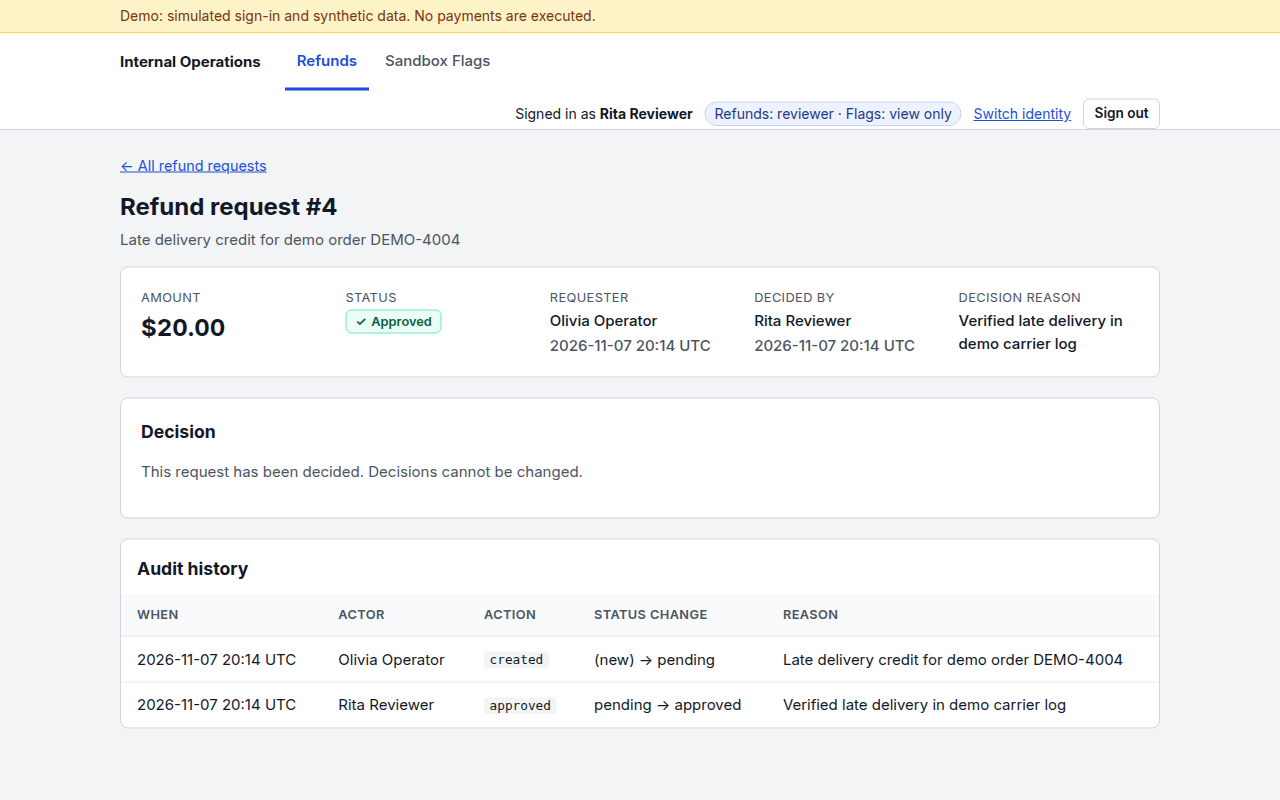
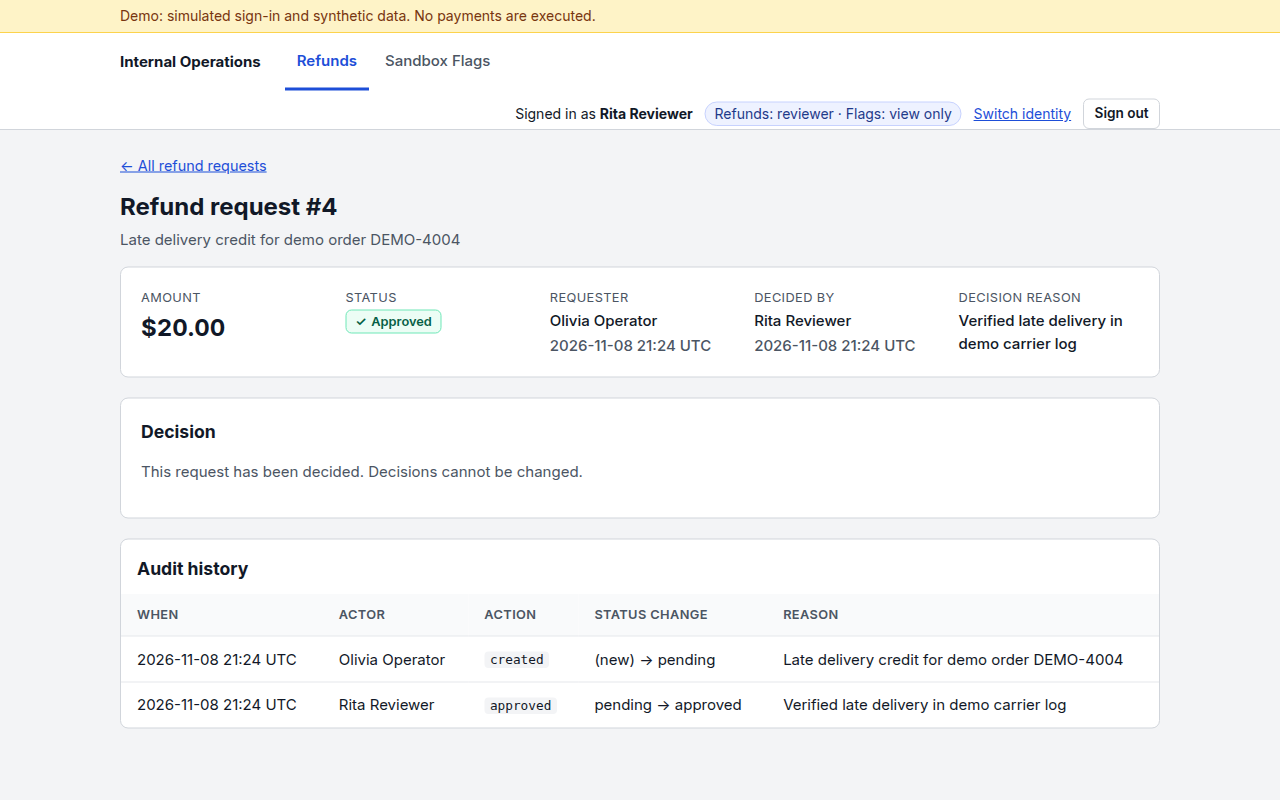
Fix stale flag form and malformed CSRF edge cases; consolidate docs

diff --git a/app/templates/flag_detail.html b/app/templates/flag_detail.html
@@ -21,8 +21,8 @@
   {% if errors %}<p class="notice notice-error" role="alert">Please correct the errors below.</p>{% endif %}
   <form method="post" action="/flags/{{ flag.id }}">
     <input type="hidden" name="csrf_token" value="{{ csrf_token }}">
-    <input type="hidden" name="version" value="{{ flag.version }}">
-    <input type="hidden" name="desired" value="{{ 'disable' if flag.enabled else 'enable' }}">
+    <input type="hidden" name="version" value="{{ form.get('version', flag.version) }}">
+    <input type="hidden" name="desired" value="{{ form.get('desired', 'disable' if flag.enabled else 'enable') }}">
     <div class="field">
       <label for="reason">Reason for change (required)</label>
       <textarea id="reason" name="reason" rows="3" required {% if errors.reason %}aria-invalid="true" aria-describedby="reason-err"{% endif %}>{{ form.get('reason', '') }}</textarea>

diff --git a/tests/test_flags.py b/tests/test_flags.py
@@ -150,3 +150,27 @@ def test_stale_conflict_page_links_to_latest_flag(as_user, conn):
 def test_header_shows_per_tool_permissions(as_user):
     assert "Refunds: viewer · Flags: admin" in as_user("fiona").get("/flags").text
     assert "Refunds: reviewer · Flags: view only" in as_user("rita").get("/flags").text
+
+
+def test_stale_form_with_invalid_reason_conflicts_instead_of_refreshing(as_user, conn):
+    fiona = as_user("fiona")
+    opened = flag_row(conn)
+    assert change(fiona, opened).status_code == 303
+    newer = flag_row(conn)
+    for reason in ("   ", "Corrected reason"):
+        r = change(fiona, opened, reason=reason)
+        assert r.status_code == 409
+        assert "This setting has changed" in r.text
+    assert dict(flag_row(conn)) == dict(newer)
+    assert flag_events(conn, opened["id"]) == 1
+
+
+def test_invalid_reason_rerender_keeps_submitted_version_and_action(as_user, conn):
+    fiona = as_user("fiona")
+    flag = flag_row(conn)
+    r = change(fiona, flag, reason="   ")
+    assert r.status_code == 422
+    assert f'name="version" value="{flag["version"]}"' in r.text
+    assert 'name="desired" value="disable"' in r.text
+    assert dict(flag_row(conn)) == dict(flag)
+    assert flag_events(conn, flag["id"]) == 0

diff --git a/tests/test_permissions.py b/tests/test_permissions.py
@@ -101,3 +101,16 @@ def test_unknown_request_is_404(as_user):
     raj = as_user("raj")
     assert raj.get("/requests/999").status_code == 404
     assert raj.decide(999).status_code == 404
+
+
+def test_malformed_csrf_token_rejected_without_changes(as_user, conn, users):
+    olivia, fiona = as_user("olivia"), as_user("fiona")
+    before = (count(conn, "refund_requests"), count(conn, "audit_events"))
+    flag = conn.execute("SELECT * FROM feature_flags ORDER BY id LIMIT 1").fetchone()
+    assert olivia.client.post("/requests", data={"amount": "1.00", "reason": "x", "csrf_token": "é"}).status_code == 403
+    assert fiona.client.post(f"/flags/{flag['id']}", data={
+        "desired": "disable" if flag["enabled"] else "enable", "reason": "x",
+        "version": str(flag["version"]), "csrf_token": "é"}).status_code == 403
+    assert as_user().client.post("/login", data={"user_id": str(users["rita"]["id"]), "csrf_token": "é"}).status_code == 403
+    assert (count(conn, "refund_requests"), count(conn, "audit_events")) == before
+    assert dict(conn.execute("SELECT * FROM feature_flags WHERE id=?", (flag["id"],)).fetchone()) == dict(flag)

diff --git a/app/flags.py b/app/flags.py
@@ -58,6 +58,12 @@ def set_flag(conn: sqlite3.Connection, actor, flag_id: int, desired, reason_raw,
         expected_version = int(expected_version_raw)
     except (TypeError, ValueError):
         errors["version"] = "Missing form version. Reload the page."
+    if errors and "version" not in errors:
+        row = conn.execute("SELECT version FROM feature_flags WHERE id = ?", (flag_id,)).fetchone()
+        if row is None:
+            raise NotFound("Flag not found.")
+        if row["version"] != expected_version:
+            raise _stale(flag_id)
     if errors:
         raise ValidationFailed("Please correct the errors below.", errors)
 

diff --git a/app/main.py b/app/main.py
@@ -96,7 +96,7 @@ def create_app(
         form = await request.form()
         sent = form.get("csrf_token")
         expected = request.session.get("csrf")
-        if not isinstance(sent, str) or not expected or not secrets.compare_digest(sent, expected):
+        if not isinstance(sent, str) or not expected or not secrets.compare_digest(sent.encode(), expected.encode()):
             raise CsrfFailed()
         return form
 

diff --git a/docs/devin-workflow.md b/docs/devin-workflow.md
@@ -1,75 +1,50 @@
 # How this was built with Devin
 
-The whole project was built in one Devin session. Requirements came in as chat messages. Changes went through GitHub pull requests.
+The project was built in one Devin session. Requirements arrived as chat messages, and every change went through a GitHub pull request with the `pytest` check.
 
-## Requests and results
+## Scope
 
-| # | Request | Result |
-|---|---|---|
-| 1 | Do minimal environment setup and propose a plan for the refund tool. Wait for review. | Plan with schema, test list, and time allocation. |
-| 2 | Approve the plan with corrections: `DEMO_MODE` must fail closed, server-side identity and roles only, CSRF on every form including identity switching, no GET mutations, SQLite foreign keys on, trimmed reasons, consistent status fields, 404/403/409 codes, bounded busy timeout, accurate "first committed decision" and "insert-only" wording. | [PR #1](https://github.com/SohanMads/fintech-internal-tools-poc/pull/1) opened with the refund workflow and 35 tests. |
-| 3 | Add a Sandbox Flags tool on the shared foundation, "Internal Operations" navigation, dollar amount input, and README sections on reuse and limitations. | Flags tool, audit table migration, shared modules for audit and errors. 82 tests. |
-| 4 | Final pass: per-tool permission labels, stale-form and error-page navigation, GitHub Actions CI, a clean-clone reproducibility check, accurate audit wording, UI polish. | Labels like "Refunds: viewer · Flags: admin". Stale flag 409 links to the flag. CI workflow passing. Shared stylesheet. 84 tests. |
-| 5 | Finalize for submission: repo description, README title, conflict demo with a fresh request, mobile-table limitation, secrets check, merge PR #1. | README fixed and PR #1 merged. The repo description could not be set from the session. |
-| 6 | Rewrite the README for a reviewer and move process detail to build notes. | [PR #2](https://github.com/SohanMads/fintech-internal-tools-poc/pull/2) with a shorter README and `docs/build-notes.md`. |
-| 7 | Three README wording fixes, then merge PR #2. | PR #2 merged. |
-| 8 | This documentation pass: Power Apps comparison, screenshots, target architecture, this file. | Documentation-only PR. |
+A refund approval workflow with synthetic data, simulated sign-in, server-side permissions, no self-approval, safe concurrent decisions, and an audit trail. A small Sandbox Flags tool was then added on the same foundation to see what could be reused. Payments, real authentication, deployment, and a generic form builder were out of scope.
 
-## What Devin got right
+## Pull requests
 
-- The first plan already had atomic audit writes in the same transaction and a conditional update for competing reviewers.
-- Tests cover the hard cases: concurrent decisions from two threads, audit-failure rollback, and forged role or actor fields.
-- The audit table migration kept existing history and verified row counts and foreign keys before committing.
-- Adding flags did not touch refund rules. Shared code moved into its own modules.
+| PR | Change |
+|---|---|
+| [#1](https://github.com/SohanMads/fintech-internal-tools-poc/pull/1) | Refund workflow (35 tests), then Sandbox Flags, shared audit and error modules, CI, and UI polish (84 tests) |
+| [#2](https://github.com/SohanMads/fintech-internal-tools-poc/pull/2) | README rewrite |
+| [#3](https://github.com/SohanMads/fintech-internal-tools-poc/pull/3) | Power Apps comparison, screenshots, architecture notes, this file |
+| [#4](https://github.com/SohanMads/fintech-internal-tools-poc/pull/4) | CSS fix for the status badge overlapping the requester column |
+| [#5](https://github.com/SohanMads/fintech-internal-tools-poc/pull/5) | Shorter UI copy and seed data, shorter docs |
+| [#6](https://github.com/SohanMads/fintech-internal-tools-poc/pull/6) | Reject button label, unused constant removed |
+| [#7](https://github.com/SohanMads/fintech-internal-tools-poc/pull/7) | Two edge-case fixes, docs consolidated |
 
-## What needed human review
+## Time
 
-- The user's approval of the first plan added requirements the plan did not spell out: fail-closed demo mode, CSRF on every form including identity switching, foreign keys on every connection, and exact error codes.
-- The header showed Fiona as "Flag Admin (viewer)" while she edited flags. The user asked for per-tool labels.
-- A stale flag form returned to the refund queue instead of the flag. The user caught it.
-- CI was not added until the user asked.
+- Devin build time: 23 minutes from start to the last application code push of PR #1, across 3 review rounds. Later fixes in PRs #4 to #7 are not included.
+- Human time reviewing and directing: ~__ minutes
+
+These numbers are from one session and are not an estimate for other apps.
+
+## Corrections
+
+Each of these was raised in the session and fixed in a later commit or PR.
+
+- Approving the first plan added requirements it did not spell out: fail-closed demo mode, CSRF on every form including identity switching, foreign keys on every connection, and exact error codes.
+- The header showed the flag admin's refund role only. The user asked for per-tool permission labels.
+- A stale flag form linked back to the refund queue instead of the flag. The user caught it.
+- CI was added only after the user asked for it.
 - The README's conflict demo used a request that was already decided. The user caught it.
-- The README read like a completion report. The user asked for a rewrite.
-- The approved status badge on the refund detail page overlapped the requester column at desktop widths. It was caught during the documentation review and fixed in [PR #4](https://github.com/SohanMads/fintech-internal-tools-poc/pull/4).
+- The approved status badge overlapped the requester column. It was found in the documentation screenshots and fixed in PR #4.
 - The session first reported the `main` CI runs as unverified. A later check found they had passed.
+- Devin Review flagged that the draft Playbook left out the `tool_permissions` CHECK migration. The Playbook was corrected.
+- The user reported two edge cases after merge. A stale flag form with an invalid reason was re-rendered with the newer version and the opposite action. A non-ASCII CSRF token caused a 500. Both are fixed with regression tests in PR #7.
 
-## Draft Playbook: Add internal tool #N on the shared foundation
+## Playbook: add internal tool #N
 
-Paste this into Devin as a Playbook.
-
-```markdown
-# Add internal tool #N on the shared foundation
-
-## Inputs the requester must provide
-- Workflow: what a user does, step by step, and what states a record moves through.
-- Roles: who can view, create, change, and approve. Note any no-self-approval rule.
-- Data: fields, types, validation rules, and sample synthetic records.
-- Audit events: which actions must be recorded and what each record must contain.
-- Integrations: any external API the tool calls. Say "none" if there are none.
-
-## Steps
-1. Read README.md, docs/architecture.md, and app/ to learn the shared modules. Do not change refund or flag rules.
-2. Schema and migration: add the tool's tables in app/db.py. Add the audit target column and CHECK changes. Write a migration that keeps existing audit rows and verifies row count and foreign keys.
-3. Rules module: create app/<tool>.py. Put every permission check, validation rule, and state change here. Wrap each change and its audit.record call in one db.transaction.
-4. Concurrency: use a conditional UPDATE on status or a version column. Return 409 when no row changes.
-5. Routes: add GET pages and POST actions in app/main.py. Every POST uses checked_form. No GET request changes data.
-6. Templates: extend base.html. Reuse error.html and _audit_table.html. Add a nav link.
-7. Permission grants: the tool_permissions CHECK constraint lists every allowed permission. Add the new permissions to it in the step 2 migration, then seed demo users that hold them.
-8. Tests in tests/test_<tool>.py:
-   - Permission tests for every role, including forbidden actions (403).
-   - CSRF required on every POST, and GET never changes data.
-   - Concurrency or stale-form test that proves only one write wins (409 for the other).
-   - Audit-rollback test that forces audit.record to fail and checks nothing was saved.
-   - Validation tests for every input rule.
-9. Run python -m pytest -q. All tests must pass.
-10. Browser check: run with DEMO_MODE=true, walk through the workflow as each role, and take screenshots.
-11. Update README.md with the new tool and open a PR.
-
-## Definition of done
-- All new and existing tests pass locally and in CI.
-- Every state change writes an audit event in the same transaction.
-- Permissions are enforced on the server and covered by tests.
-- Screenshots of the main pages are in the PR.
-- The PR description lists what was reused and what was new.
-- No changes to existing tools' rules.
-```
+1. Get the workflow, roles, fields, audit events, and integrations from the requester.
+2. Add the tool's tables, the audit target column, and the new `tool_permissions` values in one migration that keeps existing audit rows.
+3. Put permission checks, validation, and state changes in `app/<tool>.py`. Wrap each change and its `audit.record` call in one `db.transaction`.
+4. Use a conditional `UPDATE` on status or version and return 409 when no row changes.
+5. Add routes in `app/main.py` with `checked_form` on every POST, and templates that extend `base.html`.
+6. Add tests for permissions, CSRF, stale writes, audit rollback, and validation. Run `python -m pytest -q`.
+7. Check the workflow in a browser as each role, update the README, and open a PR.

diff --git a/docs/architecture.md b/docs/architecture.md
@@ -1,72 +1,27 @@
-# Target production architecture
+# Architecture
 
-This describes what a real rollout would look like. It is not what the prototype does. The prototype is described in the [README](../README.md).
+## Implemented in the prototype
 
-```mermaid
-flowchart LR
-  User["Employee browser"] --> Proxy["Zero-trust access proxy"]
-  Proxy --> App["Internal tool<br/>(built from platform template)"]
-  Entra["Entra ID<br/>OIDC SSO, groups, SCIM"] --> App
-  subgraph Template["Shared platform template"]
-    Auth["Auth middleware<br/>session and CSRF"]
-    Grants["Unified grants table<br/>principal, app, permission"]
-    Approval["Maker-checker approval primitive"]
-    AuditSvc["Append-only audit service"]
-    UI["Shared UI kit"]
-  end
-  App --- Template
-  App --> PG[("Postgres<br/>per environment")]
-  AuditSvc --> PG
-  AuditSvc --> Lock[("Object-lock storage<br/>audit export")]
-  App --> APIs["Existing service APIs<br/>e.g. processor refund API"]
-  Ticket["Ticket"] --> Devin["Devin session<br/>Knowledge + Playbook"]
-  Devin --> PR["Pull request"] --> CI["CI: tests, SAST,<br/>dependency scan"] --> Review["CODEOWNERS review"] --> Deploy["Deploy to company cloud"]
-  Deploy --> App
-```
+| Concern | Prototype |
+|---|---|
+| Runtime | One local FastAPI process with Jinja2 templates |
+| Database | One SQLite file, foreign keys on, `BEGIN IMMEDIATE` transactions |
+| Identity | Demo identity picker behind `DEMO_MODE`, signed session cookie holding the user ID and CSRF token |
+| Permissions | `users.role` for refunds, `tool_permissions` grants for flags, both loaded from the database on each request |
+| Concurrency | Conditional `UPDATE` on refund status, version check on flags, 409 for the losing write |
+| Audit | `audit_events` written in the same transaction as each change, one nullable foreign key per audited resource |
+| Integrations | None. Approvals change a status only, and nothing reads the flags. |
+| CI | GitHub Actions runs `python -m pytest -q` |
 
-## Identity
+The module layout is in the [README](../README.md#how-it-works).
 
-Users sign in with Entra ID through OIDC SSO. The client already pays for Microsoft, so this adds no new identity vendor. Entra groups map to app permissions. SCIM deprovisioning removes access when someone leaves.
+## Possible production changes
 
-## Shared platform template
+None of these exist in the prototype. Each one depends on the company's existing infrastructure and would need its own design and security review.
 
-Every new app starts from one template repository. It contains:
-
-- Auth middleware with session and CSRF handling.
-- One unified grants table. Each row is a principal (user or group), an app, and a permission.
-- An append-only audit service. It writes to Postgres with UPDATE and DELETE revoked from the app's database role. It also exports to object-lock storage so tampering is detectable.
-- A reusable maker-checker approval primitive. One person submits, a different person approves.
-- A shared UI kit.
-
-## Data
-
-Each environment has its own Postgres database. Internal tools never write directly to the production databases of money movement or KYC systems. They call existing service APIs instead. A refund approval would call the payment processor's refund API with an idempotency key.
-
-## Network
-
-Apps sit behind a zero-trust access proxy. They are not exposed to the public internet.
-
-## CI/CD
-
-Every pull request runs tests, SAST, and dependency scanning. CODEOWNERS review is required before merge. Merged changes deploy to the company's cloud.
-
-## Devin loop
-
-1. A ticket describes the tool or change.
-2. A Devin session picks it up. It uses Knowledge for platform conventions and a "new internal tool" Playbook.
-3. Devin opens a PR.
-4. CI runs.
-5. A human reviews and approves.
-6. The change deploys.
-
-After launch, Devin handles ongoing maintenance: dependency upgrades, migrations, and small changes. Each one goes through the same PR, CI, and review path.
-
-## Prototype vs production
-
-| Concern | Prototype | Production |
-|---|---|---|
-| Database | SQLite file | Postgres per environment |
-| Identity | Demo identity picker | Entra ID SSO |
-| Permissions | `users.role` column plus `tool_permissions` | Unified grants table |
-| Audit | One nullable FK per audited resource | `target_type`/`target_id` once there are more than about 3 audited resource types, with target integrity enforced in app code and tests |
-| Runtime | Local process | Containerized deploy behind the access proxy |
+- **Identity:** replace the demo picker with the company's SSO (for example Entra ID over OIDC, since Power Apps tenants already use it). Map identity-provider groups to app permissions and remove access through deprovisioning.
+- **Permissions:** merge roles and tool grants into one table of principal, app, and permission, so a new tool does not need a schema change.
+- **Database:** move from SQLite to a managed database per environment. Add a migration process and backups.
+- **Audit:** revoke UPDATE and DELETE on the audit table from the app's database role and export events to write-once storage. With more audited resource types, a `target_type`/`target_id` pair avoids a schema change per tool but moves target integrity checks into application code.
+- **Integrations:** call existing service APIs, such as a payment processor's refund API with an idempotency key, instead of writing to other systems' databases.
+- **Hosting and CI:** deploy behind the company's access controls, not the public internet. Add security scanning and required code review to CI.

diff --git a/README.md b/README.md
@@ -4,11 +4,13 @@ This project explores how a fintech engineering team could use Devin to build in
 
 Refunds were the main workflow. I added flags to see what could be reused when building another tool.
 
+![Decided refund with audit history](docs/screenshots/refund-detail-audit.png)
+
 > Local demo with synthetic data and simulated sign-in. Refund approvals do not move money, and flags do not control a live application.
 
 ## What this replicates from Power Apps (and what it doesn't)
 
-Devin replaces the app builder, not the platform. Power Apps gives a team (a) a fast way to build forms-over-data apps and (b) a managed platform: Entra ID SSO, connectors, Dataverse, hosting, and admin governance (environments, DLP policies). Devin can replace (a). The company would own (b).
+Power Apps gives a team (a) a fast way to build forms-over-data apps and (b) a managed platform: Entra ID SSO, connectors, Dataverse, hosting, and admin governance (environments, DLP policies). This prototype shows that Devin can build application workflows like those in (a), while engineers remain responsible for operating them. It does not provide (b).
 
 | Replicated here | Not replicated (on purpose) |
 |---|---|
@@ -19,13 +21,13 @@ Devin replaces the app builder, not the platform. Power Apps gives a team (a) a 
 | Safe concurrent edits | DLP and environment governance |
 | | Mobile app |
 
-Refunds were chosen over KYC because KYC brings PII, an identity-verification vendor, and compliance review into scope. That makes it the worst app to start with and the last one to migrate.
+KYC was deferred because its sensitive data and verification requirements need separate investigation.
 
 There is no generic form builder. Rebuilding the Power Apps builder misses the point because Devin is the builder.
 
 The flags tool added `app/flags.py` (83 lines), 2 tables, 3 routes, 2 templates, and 18 tests. Sessions, CSRF, database helpers, audit, error handling, layout, and test fixtures came from the refund tool. The audit table needed one migration to add a `flag_id` column.
 
-Target production design: [docs/architecture.md](docs/architecture.md). How the project was built: [docs/devin-workflow.md](docs/devin-workflow.md).
+Prototype architecture and possible production changes: [docs/architecture.md](docs/architecture.md). How the project was built: [docs/devin-workflow.md](docs/devin-workflow.md).
 
 ## Run locally
 
@@ -70,17 +72,11 @@ Pick any seeded user on the sign-in page:
 1. As Olivia, open Refunds, choose New refund request, and enter an amount and a reason.
 2. Switch to Rita, open the request, and approve or reject it with a reason.
 
-![Refund queue](docs/screenshots/refund-queue.png)
-
-![Decided refund with audit history](docs/screenshots/refund-detail-audit.png)
-
 ### Competing reviewers
 
 1. As Olivia, submit a new request.
 2. Open it as Rita in one browser and as Raj in a private window.
 3. Submit a decision in both. The first decision saved wins, and the other reviewer gets a 409 page.
-
-![409 page for the second reviewer](docs/screenshots/refund-conflict-409.png)
 
 ### Change a flag
 
@@ -117,7 +113,15 @@ flowchart TB
 python -m pytest -q
 ```
 
-The 84 tests cover permissions for both tools, concurrent decisions and stale flag forms, CSRF on every form, audit rollback, amount parsing, and the audit table migration. GitHub Actions runs the same command on every pull request and push to `main`.
+Each of the 87 tests runs against a temporary SQLite database. GitHub Actions runs the same command on every pull request and push to `main`.
+
+| File | Covers |
+|---|---|
+| `test_permissions.py` | Role rules, 503 without demo mode, ignored client role and actor, CSRF on every form including malformed tokens, GET never mutates, 404s |
+| `test_validation.py` | Invalid amounts and blank reasons rejected with no rows written, trimming, status labels |
+| `test_decisions_and_audit.py` | Self-approval, sequential and threaded concurrent conflicts, audit consistency, audit-failure rollback, busy-timeout 503, database constraints |
+| `test_flags.py` | Only Fiona edits, Fiona cannot submit or decide refunds, reason required, stale form 409 (also when the reason is invalid), audit-failure rollback, audit target CHECK |
+| `test_money_and_migration.py` | Exact dollar to cents conversion, rejected formats, refund-only audit table migrated with history preserved |
 
 ## Limitations
 
@@ -128,5 +132,3 @@ The 84 tests cover permissions for both tools, concurrent decisions and stale fl
 - On narrow screens, tables scroll horizontally instead of stacking.
 
 Production use would require identity-provider integration, deployment and operations work, and a security review.
-
-Build time and test breakdown: [docs/build-notes.md](docs/build-notes.md).
